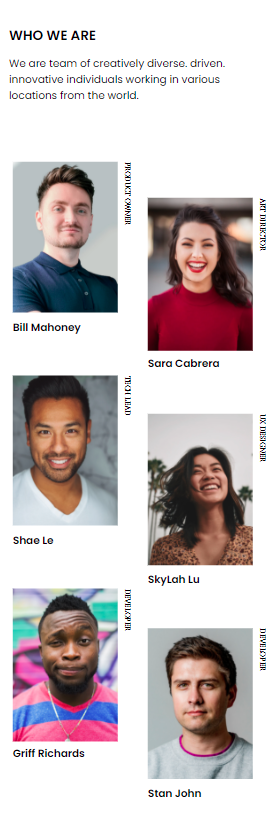
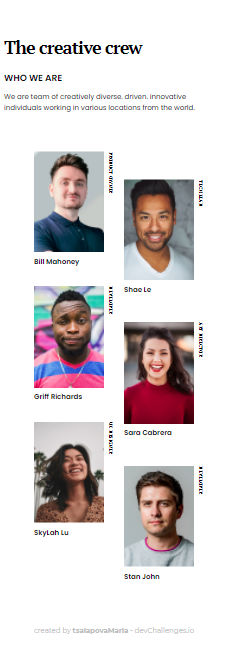
add screenshots and complete style

diff --git a/style.css b/style.css
@@ -122,7 +122,6 @@ html,body {
     }
     .text-container {
         display: flex;
-        padding: 0 50px;
 
         height: 243px;
         
@@ -138,7 +137,6 @@ html,body {
     }
 
     .team-container{
-
         display: grid;
         grid-template-columns: 1fr 1fr 1fr;
         justify-content: center;
